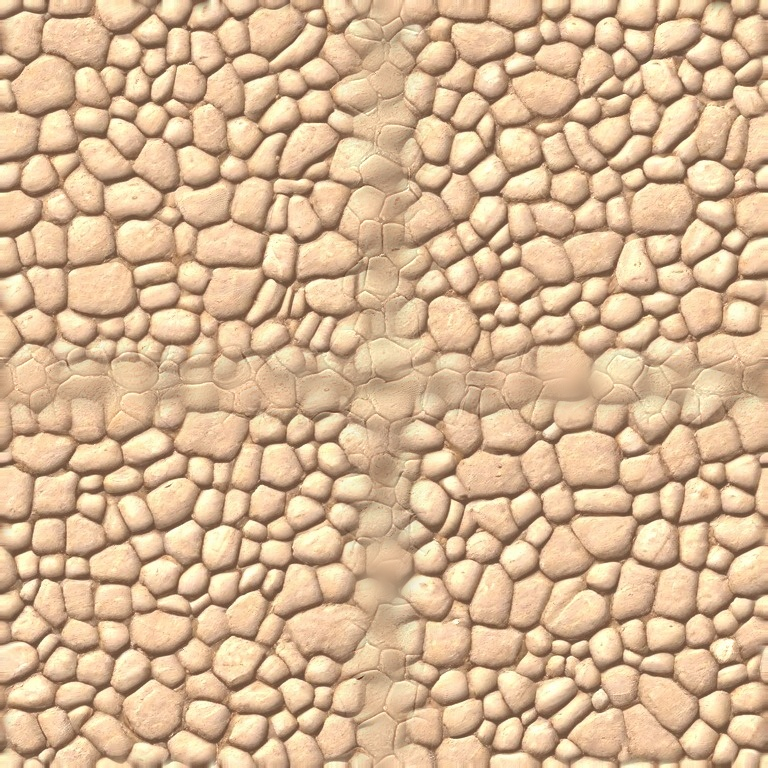
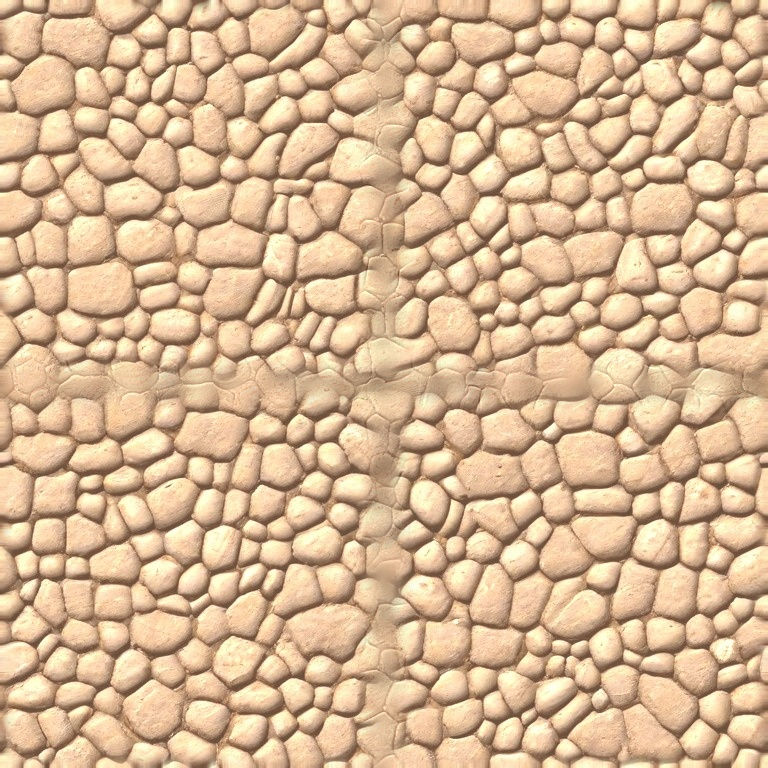
fix: dlaždice — užší pás hojení (16 px) a jemnější dávka textury
Navazující doladění po 7093627: široký pás hojení (28 px) sice vrátil
vysokofrekvenční detail, ale nízké frekvence zůstávají rozmazané přes ~2*band
px, takže je ve středu pořád vidět rozostřený pruh s deformovanými detaily.
Gemini vision (skill `vision`) to označil za zbytkovou vadu a užší pás ji
podle něj výrazně zmenšil. Vysvětlení je konzistentní s metrikou: ta měří
vysoké frekvence (ty jsou v pořádku), kdežto šmouha je v nízkých.

- výchozí `--band` 28 -> 16, `--grain` 1.0 -> 0.9 (v užším pásu stačí méně)
- assets/tiles: 20 dlaždic znovu z raw PNG — jedno zacelení, jedno JPEG kódování

Ostrost pásu 0.95 (0/20 pod limitem 0.85, 0/20 přestřelených), seam/zrno 0.77
(limit 1.6), wrap 1.93 (limit 2.5), perioda 6, odlišnost terénů 40.1.

Zbylá šmouha se dala odstranit jen tím, že by dlaždice šev vůbec neměla —
což je přesně směr "route C" (základ mapy kreslený kódem ve foundry).

diff --git a/scripts/seamless_tiles.py b/scripts/seamless_tiles.py
@@ -74,7 +74,7 @@ def _blur_uint8(a, radius):
     ).astype(np.float32)
 
 
-def grain_pass(arr, band=28.0, detail=1.6, amount=1.0, gain=3.0, shift=0):
+def grain_pass(arr, band=16.0, detail=1.6, amount=0.9, gain=3.0, shift=0):
     """Vrátí do zaceleného kříže texturu, kterou tam zacelení rozmazalo.
 
     Zacelení míchá gaussovské rozostření s maskou kříže -> šev zmizí, ale
@@ -98,7 +98,7 @@ def grain_pass(arr, band=28.0, detail=1.6, amount=1.0, gain=3.0, shift=0):
     return arr + hf * (m[:, :, None] * amount)
 
 
-def heal(arr, band=28.0, radius=8.0, edge=16, grain=1.0, detail=1.6, gain=3.0):
+def heal(arr, band=16.0, radius=8.0, edge=16, grain=0.9, detail=1.6, gain=3.0):
     """Posun o polovinu + zacelení kříže + vrácení textury + srovnání okrajů."""
     h, w, _ = arr.shape
     b = np.roll(np.roll(arr, w // 2, axis=1), h // 2, axis=0).astype(np.float32)
@@ -181,13 +181,13 @@ def main():
     ap = argparse.ArgumentParser()
     ap.add_argument('--dir', default='assets/tiles')
     ap.add_argument('--out', default=None, help='vystupni adresar (default: prepsat vstup)')
-    ap.add_argument('--band', type=float, default=28.0, help='sirka pasu na krizi (px)')
+    ap.add_argument('--band', type=float, default=16.0, help='sirka pasu na krizi (px)')
     ap.add_argument('--radius', type=float, default=8.0, help='polomer rozostreni')
     ap.add_argument('--edge', type=int, default=16, help='pas pro srovnani okraju (px)')
     ap.add_argument('--quality', type=int, default=95)
     ap.add_argument('--skip-below', type=float, default=1.0,
                     help='kdyz je wrap pod timto, nechat soubor byt')
-    ap.add_argument('--grain', type=float, default=1.0,
+    ap.add_argument('--grain', type=float, default=0.9,
                     help='kolik textury vratit do zaceleneho krize (0 = vypnuto)')
     ap.add_argument('--detail', type=float, default=1.6,
                     help='polomer, od ktereho se bere "detail" (vyssi = hrubsi)')
